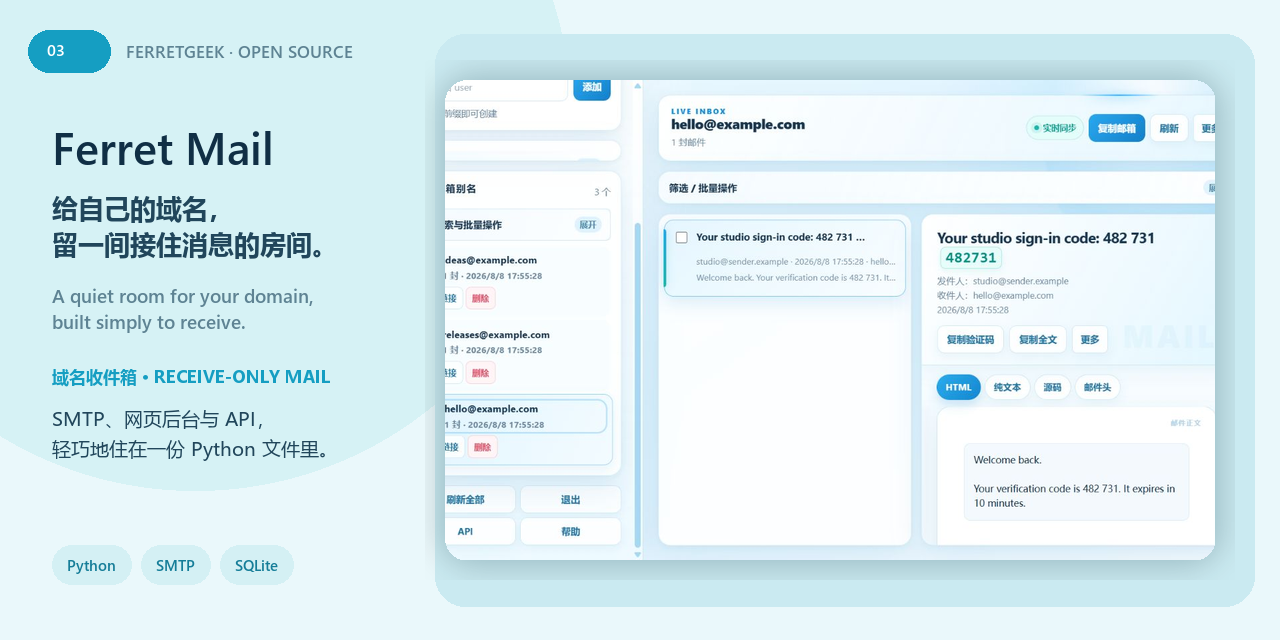
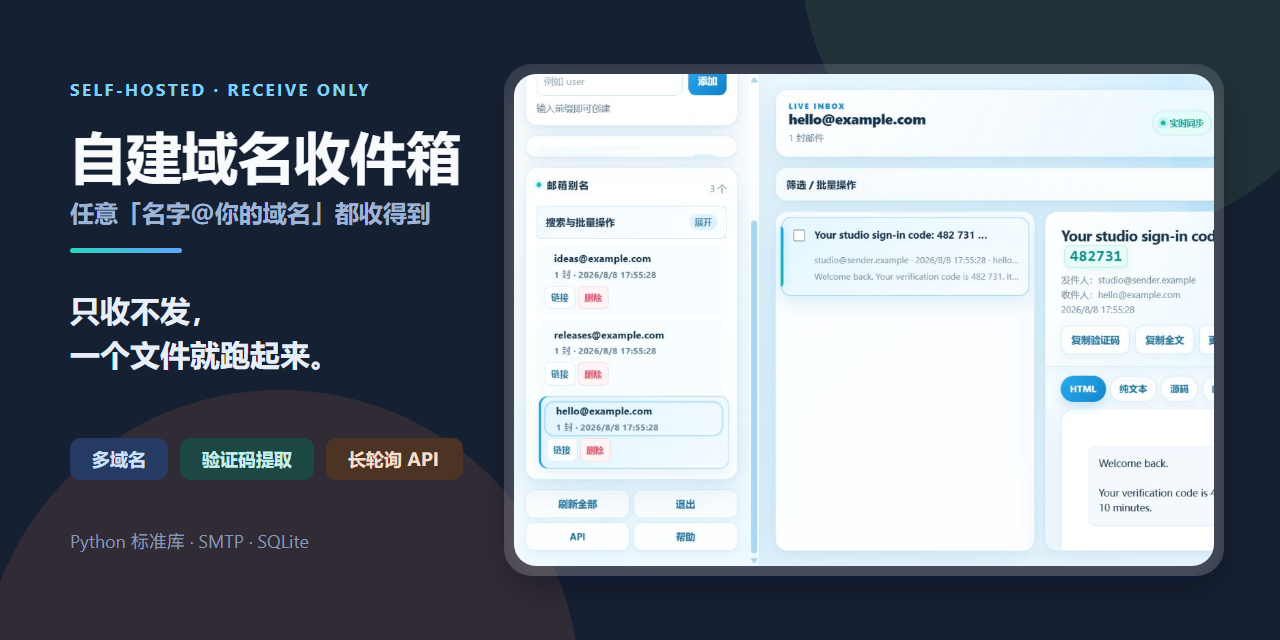
docs: 重写全部面向读者的文案（主页、README、文档措辞与命名）

diff --git a/README.md b/README.md
@@ -1,81 +1,93 @@
 <p align="center">
-  <img src="docs/images/social-preview.png" alt="Ferret Mail social preview" width="100%">
+  <img src="docs/images/social-preview.png" alt="自建域名收件箱 — 只收不发的域名邮箱" width="100%">
 </p>
 
-<h1 align="center">Ferret Mail — 自托管域名收件箱 / Self-hosted Domain Inbox</h1>
+# 自建域名收件箱
 
-<p align="center">
-  给自己的域名，留一间只负责接住消息的房间。<br>
-  <em>Give your domain a quiet room built simply to receive.</em>
-</p>
+中文 · [English](README_EN.md)
 
-<p align="center">
-  <a href="../../actions/workflows/ci.yml"><img alt="CI" src="https://github.com/ferretgeek/FerretMail/actions/workflows/ci.yml/badge.svg"></a>
-  <img alt="Python 3.10+" src="https://img.shields.io/badge/Python-3.10%2B-3776AB?logo=python&logoColor=white">
-  <img alt="Standard library" src="https://img.shields.io/badge/dependencies-standard_library-2F6F6D">
-  <img alt="Receive only" src="https://img.shields.io/badge/mail-receive_only-BB6A42">
-  <a href="LICENSE"><img alt="MIT" src="https://img.shields.io/badge/license-MIT-284B63"></a>
-</p>
+[![CI](https://github.com/ferretgeek/domain-mail-inbox/actions/workflows/ci.yml/badge.svg)](https://github.com/ferretgeek/domain-mail-inbox/actions/workflows/ci.yml)
+[![Python 3.10+](https://img.shields.io/badge/Python-3.10%2B-3776AB?logo=python&logoColor=white)](https://www.python.org/)
+[![零依赖](https://img.shields.io/badge/%E8%BF%90%E8%A1%8C%E4%BE%9D%E8%B5%96-%E5%8F%AA%E7%94%A8%E6%A0%87%E5%87%86%E5%BA%93-2F6F6D)](ferret_mail_service.py)
+[![只收不发](https://img.shields.io/badge/%E9%82%AE%E4%BB%B6-%E5%8F%AA%E6%94%B6%E4%B8%8D%E5%8F%91-BB6A42)](#它不做什么)
+[![MIT](https://img.shields.io/badge/license-MIT-284B63)](LICENSE)
 
-<p align="center">
-  <a href="#中文">中文</a> · <a href="#english">English</a> ·
-  <a href="部署教程.md">部署</a> · <a href="技术文档.md">技术文档</a> ·
-  <a href="../../issues">反馈</a>
-</p>
+> 让自己的域名真的能收信：任意 `名字@你的域名` 都收得到。
 
-## 中文
+## 为什么会需要它
 
-Ferret Mail 是一个可自托管的“只收不发”域名邮箱：它在一份 Python 文件里提供 SMTP 收件、响应式管理后台、HTTP API、SQLite 存储、验证码提取和安全备份。没有云账号，也没有隐藏的第三方服务。
+你有一个自己的域名。注册各种服务时，你希望每个站点用一个不同的邮箱地址——这样谁把你的地址卖了，一看就知道。
 
-![Ferret Mail 后台预览](docs/images/dashboard.png)
+托管邮箱服务能做这件事，但要么按邮箱数量收钱，要么把你的所有来信存在别人那里。而自己搭一套完整邮件服务器（Postfix + Dovecot + 反垃圾 + 证书 + ...）是另一个量级的工程，而且你其实**根本不需要发信**。
 
-### 它能做什么
+所以这个项目只做一半：**只收，不发。**
 
-- 接收多个主域名、子域名与自动别名的邮件；
-- 在网页里检索邮件、阅读正文、复制验证码、查看链接和下载附件；
-- 在全局使用天光、墨玉、素纸三套浅色主题或 `#17191d` 深灰模式，并记住选择；
-- 为不同域名签发独立管理 Token，也可创建单别名接码链接；
-- 单别名链接把能力 Token 保留在 URL fragment，并立即换成 HttpOnly 会话；旧的路径 Token 链接需重新导出；
-- 提供长轮询 API、Webhook、DNS 检查、容量配额、限流与操作日志；
-- 自动备份 SQLite 数据，并对 HTTP、SMTP、磁盘和备份状态做健康检查。
+任意 `什么名字@你的域名` 直接就能收到邮件，不用提前创建。收到之后在网页里读信、复制验证码、看链接、下附件；也可以通过 HTTP API 拿。全部数据在你自己的机器上，一个 SQLite 文件。
 
-### 适合与不适合
+整个服务是**一份 Python 文件 + 标准库**，没有第三方运行依赖。
 
-它适合个人域名收件、测试环境、验证码归档与小型内部工具；它不提供发信、IMAP、日历或完整邮件客户端能力。公开部署需要固定公网 IP、可用的 TCP 25 端口、正确的 MX/A 记录与 HTTPS 反向代理。
+## 界面
 
-### 快速开始
+![后台预览](docs/images/dashboard.png)
+
+## 它能做什么
+
+- **多域名收件** — 多个主域名、子域名，以及自动创建的别名地址。
+- **网页里干完事** — 检索邮件、阅读正文、一键复制验证码、查看链接、下载附件。
+- **四套主题** — 天光、墨玉、素纸三套浅色配色和 `#17191d` 深灰暗色，选择会全局记住。
+- **分权限的访问** — 给不同域名签发独立的管理 Token，也可以为单个别名创建"只能看这一个邮箱"的接码链接。
+- **给程序用的接口** — 长轮询 API、Webhook、DNS 记录检查、容量配额、限流和操作日志。
+- **自己照顾自己** — 自动备份 SQLite，并对 HTTP、SMTP、磁盘和备份状态做健康检查。
+
+## 快速开始
 
 ```bash
 cp .env.example .env
-# 编辑 .env，至少设置长随机 PANEL_TOKEN、MAIL_DOMAIN 与 PUBLIC_IP
+# 编辑 .env：至少要设置一个长随机的 PANEL_TOKEN、MAIL_DOMAIN 和 PUBLIC_IP
 set -a && . ./.env && set +a
 python3 ferret_mail_service.py
 ```
 
-生产环境请按 [部署教程](部署教程.md) 使用非 root 用户、systemd、HTTPS 与受限文件权限；完整变量见 [.env.example](.env.example)。
+生产环境请按[部署教程](部署教程.md)使用非 root 用户、systemd、HTTPS 和受限文件权限。完整变量清单见 [.env.example](.env.example)。
 
-## English
+## 公网部署需要什么
 
-Ferret Mail is a self-hosted, receive-only domain mail service. One Python file provides SMTP ingestion, a responsive admin UI, an HTTP API, SQLite storage, verification-code extraction, and guarded backups—without a cloud account or hidden third-party service.
+这是绕不过去的三件事，先确认再动手：
 
-### Highlights
+1. **固定公网 IP**，且 **TCP 25 端口可用**——很多云服务商和家宽默认封 25 端口，需要申请解封。
+2. **正确的 MX / A 记录**（服务内置 DNS 检查帮你核对）。
+3. **管理后台前面挂 HTTPS 反向代理**。
 
-- Receive mail for multiple root domains, subdomains, and automatically created aliases.
-- Search and read messages, copy codes, inspect links, and download attachments in the web UI.
-- Choose from Skyline, Moyu, and Minimal light palettes or the `#17191d` deep-gray mode; the preference persists globally.
-- Issue per-domain admin tokens or narrowly scoped public inbox links.
-- Keep share-link bearer tokens in URL fragments and immediately exchange them for HttpOnly sessions; re-export legacy path-token links.
-- Use long-polling APIs, webhooks, DNS checks, quotas, rate limits, and operation logs.
-- Back up SQLite data and monitor HTTP, SMTP, storage, and backup health.
+## 技术上值得一提的地方
 
-Ferret Mail is designed for personal domains, test environments, code inboxes, and small internal tools. It is not an outbound mail server, IMAP service, calendar, or full mail client. Public deployment requires a reachable TCP 25 port, valid MX/A records, and HTTPS in front of the admin UI.
+**一份 Python 文件，只用标准库。** SMTP 收件、HTTP 服务、响应式后台、SQLite 存储、验证码提取和备份全在里面，没有第三方运行依赖。理由和游戏服务器那个项目一样：邮件服务是"装好就希望它三年别出事"的东西，依赖越少越安全。
 
-See the [deployment guide](部署教程.md), [technical reference](技术文档.md), [contributing guide](CONTRIBUTING.md), [changelog](CHANGELOG.md), and [configuration template](.env.example).
+**分享链接的 Token 不进服务器日志。** 单别名接码链接把能力 Token 放在 URL 的 **fragment**（`#` 后面）——fragment 不会被浏览器发给服务器，因此不会出现在反向代理和访问日志里。页面读到之后立即换成 HttpOnly 会话 Cookie。旧的"路径里带 Token"式链接需要重新导出。
 
-## Privacy & security
+**长轮询而不是让你狂刷。** `wait` 参数让调用方挂在那里等新邮件，而不是每秒来一次 `GET`。配合稳定的邮件 `id` 做去重。
 
-The repository contains no deployment database, message, credential, real domain, server address, or production log. Never commit `.env`, SQLite files, backups, downloaded attachments, or screenshots from a live inbox. Please report vulnerabilities through [SECURITY.md](SECURITY.md).
+**四类健康检查是分开的。** HTTP、SMTP、磁盘和备份状态各自独立上报——"服务还活着"和"备份还在做"是两个问题，混在一个绿灯里没有意义。
 
-## License
+**限流和配额是按域名的。** 容量配额、限流和操作日志都按域名维度，一个域名被刷不会拖垮其他域名。
 
-Code is available under the [MIT License](LICENSE).
+## 它不做什么
+
+- **不发信。** 没有 SMTP 发送、没有 SPF/DKIM 签名、不能当发件服务器用。
+- 不提供 IMAP、日历，或完整邮件客户端能力。
+- 不做反垃圾评分（收进来的东西你自己判断）。
+- 适合：个人域名收件、测试环境、验证码归档、小型内部工具。
+  不适合：作为主邮箱、团队协作邮箱或对外发信服务。
+
+## 隐私与安全
+
+仓库里不含任何部署数据库、邮件、凭据、真实域名、服务器地址或生产日志。
+
+**永远不要提交** `.env`、SQLite 文件、备份、下载的附件，或来自真实收件箱的截图。
+
+## 更多文档
+
+[部署教程](部署教程.md) · [技术文档](技术文档.md) · [配置模板](.env.example) · [版本变更](CHANGELOG.md) · [参与开发](CONTRIBUTING.md) · [安全策略](SECURITY.md)
+
+## 许可
+
+MIT License，见 [LICENSE](LICENSE)。

diff --git a/README_EN.md b/README_EN.md
@@ -1,0 +1,93 @@
+<p align="center">
+  <img src="docs/images/social-preview.png" alt="Domain mail inbox — a receive-only mailbox for your own domain" width="100%">
+</p>
+
+# Domain mail inbox
+
+[中文](README.md) · English
+
+[![CI](https://github.com/ferretgeek/domain-mail-inbox/actions/workflows/ci.yml/badge.svg)](https://github.com/ferretgeek/domain-mail-inbox/actions/workflows/ci.yml)
+[![Python 3.10+](https://img.shields.io/badge/Python-3.10%2B-3776AB?logo=python&logoColor=white)](https://www.python.org/)
+[![Standard library](https://img.shields.io/badge/dependencies-standard_library-2F6F6D)](ferret_mail_service.py)
+[![Receive only](https://img.shields.io/badge/mail-receive_only-BB6A42)](#what-it-doesnt-do)
+[![MIT](https://img.shields.io/badge/license-MIT-284B63)](LICENSE)
+
+> Make your own domain actually receive mail — at any `name@yourdomain`.
+
+## Why this exists
+
+You own a domain. When signing up for things, you'd like a different address per site, so when one of them leaks your address you know exactly who did it.
+
+Hosted mail providers can do that, but they either charge per mailbox or keep all your incoming mail on their servers. Running a full mail stack yourself (Postfix + Dovecot + antispam + certificates + …) is an entirely different scale of project — and you probably **don't need to send mail at all.**
+
+So this project does half the job: **receive only.**
+
+Any `anything@yourdomain` receives mail immediately, with no need to create it first. Then read messages, copy verification codes, inspect links, and download attachments in the web UI — or pull them over an HTTP API. All data stays on your machine in one SQLite file.
+
+The whole service is **one Python file using only the standard library.**
+
+## Interface
+
+![Dashboard preview](docs/images/dashboard.png)
+
+## What it does
+
+- **Multi-domain receiving** — multiple root domains, subdomains, and automatically created aliases.
+- **Finish the job in the browser** — search and read messages, copy codes, inspect links, download attachments.
+- **Four themes** — Skyline, Moyu, and Minimal light palettes plus a `#17191d` deep-gray dark mode, remembered globally.
+- **Scoped access** — issue per-domain admin tokens, or create a narrow public link that can only see one alias.
+- **Interfaces for programs** — long-polling API, webhooks, DNS record checks, capacity quotas, rate limits, and operation logs.
+- **Looks after itself** — automatic SQLite backups plus health checks on HTTP, SMTP, storage, and backup status.
+
+## Quick start
+
+```bash
+cp .env.example .env
+# Edit .env: at minimum set a long random PANEL_TOKEN, MAIL_DOMAIN, and PUBLIC_IP
+set -a && . ./.env && set +a
+python3 ferret_mail_service.py
+```
+
+For production, follow the [deployment guide](部署教程.md) to run as a non-root user under systemd, behind HTTPS, with restricted file permissions. Every variable is listed in [.env.example](.env.example).
+
+## What a public deployment requires
+
+Three unavoidable prerequisites — confirm them before you start:
+
+1. **A static public IP with TCP port 25 reachable.** Many cloud providers and residential ISPs block port 25 by default and require a request to unblock.
+2. **Correct MX / A records** (the service includes a DNS check to verify them).
+3. **An HTTPS reverse proxy in front of the admin UI.**
+
+## Worth noting technically
+
+**One Python file, standard library only.** SMTP ingestion, the HTTP server, the responsive admin UI, SQLite storage, verification-code extraction, and backups all live there with no third-party runtime dependencies. The reasoning is the same as the game-server project: mail is something you install and hope not to touch for three years, and fewer dependencies is fewer things that rot.
+
+**Share-link tokens never reach server logs.** Single-alias pickup links carry the capability token in the URL **fragment** (after `#`), which browsers never send to the server — so it can't appear in reverse-proxy or access logs. The page immediately exchanges it for an HttpOnly session cookie. Legacy path-token links need to be re-exported.
+
+**Long polling instead of hammering.** A `wait` parameter lets callers block for new mail rather than issuing a `GET` every second. Combine it with each message's stable `id` for deduplication.
+
+**The four health checks are separate.** HTTP, SMTP, storage, and backup status each report independently — "the service is up" and "backups are still running" are different questions, and merging them into one green light tells you nothing.
+
+**Rate limits and quotas are per domain.** Capacity quotas, rate limits, and operation logs all work per domain, so one domain getting hammered doesn't take the others down.
+
+## What it doesn't do
+
+- **It doesn't send mail.** No outbound SMTP, no SPF/DKIM signing, not usable as a sending server.
+- No IMAP, no calendar, not a full mail client.
+- No spam scoring — you judge what arrives.
+- Good for: personal domains, test environments, code archives, small internal tools.
+  Not for: your primary mailbox, team collaboration, or any outbound mail service.
+
+## Privacy and security
+
+This repository contains no deployment database, message, credential, real domain, server address, or production log.
+
+**Never commit** `.env`, SQLite files, backups, downloaded attachments, or screenshots from a live inbox.
+
+## More documentation
+
+[Deployment guide](部署教程.md) · [Technical reference](技术文档.md) · [Configuration template](.env.example) · [Changelog](CHANGELOG.md) · [Contributing](CONTRIBUTING.md) · [Security policy](SECURITY.md)
+
+## License
+
+MIT License — see [LICENSE](LICENSE).
